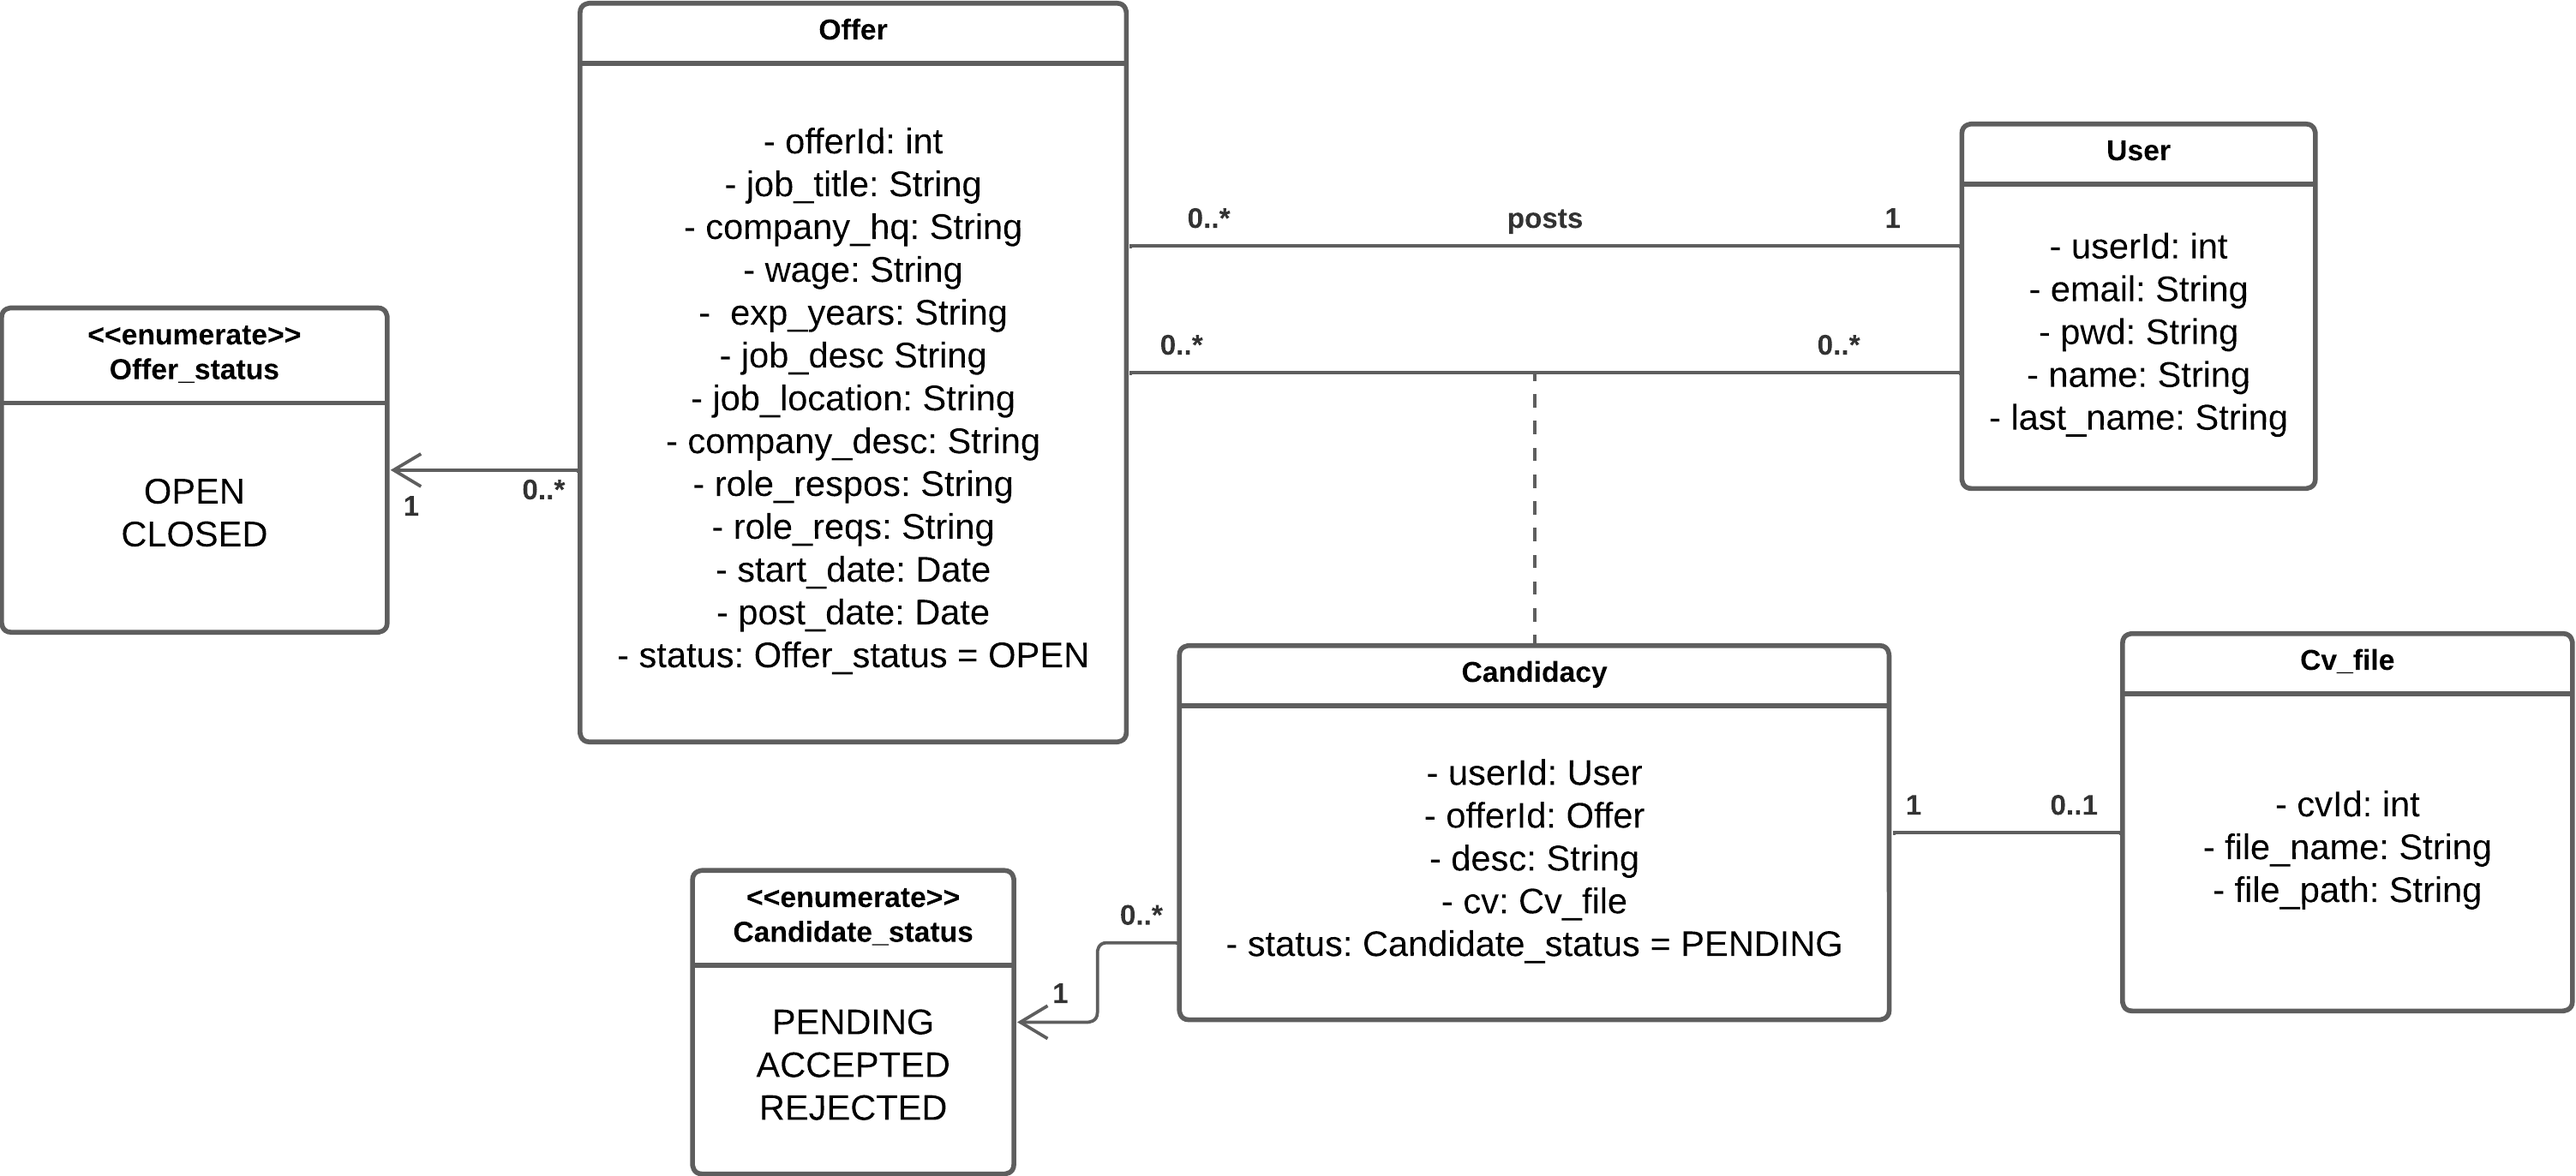
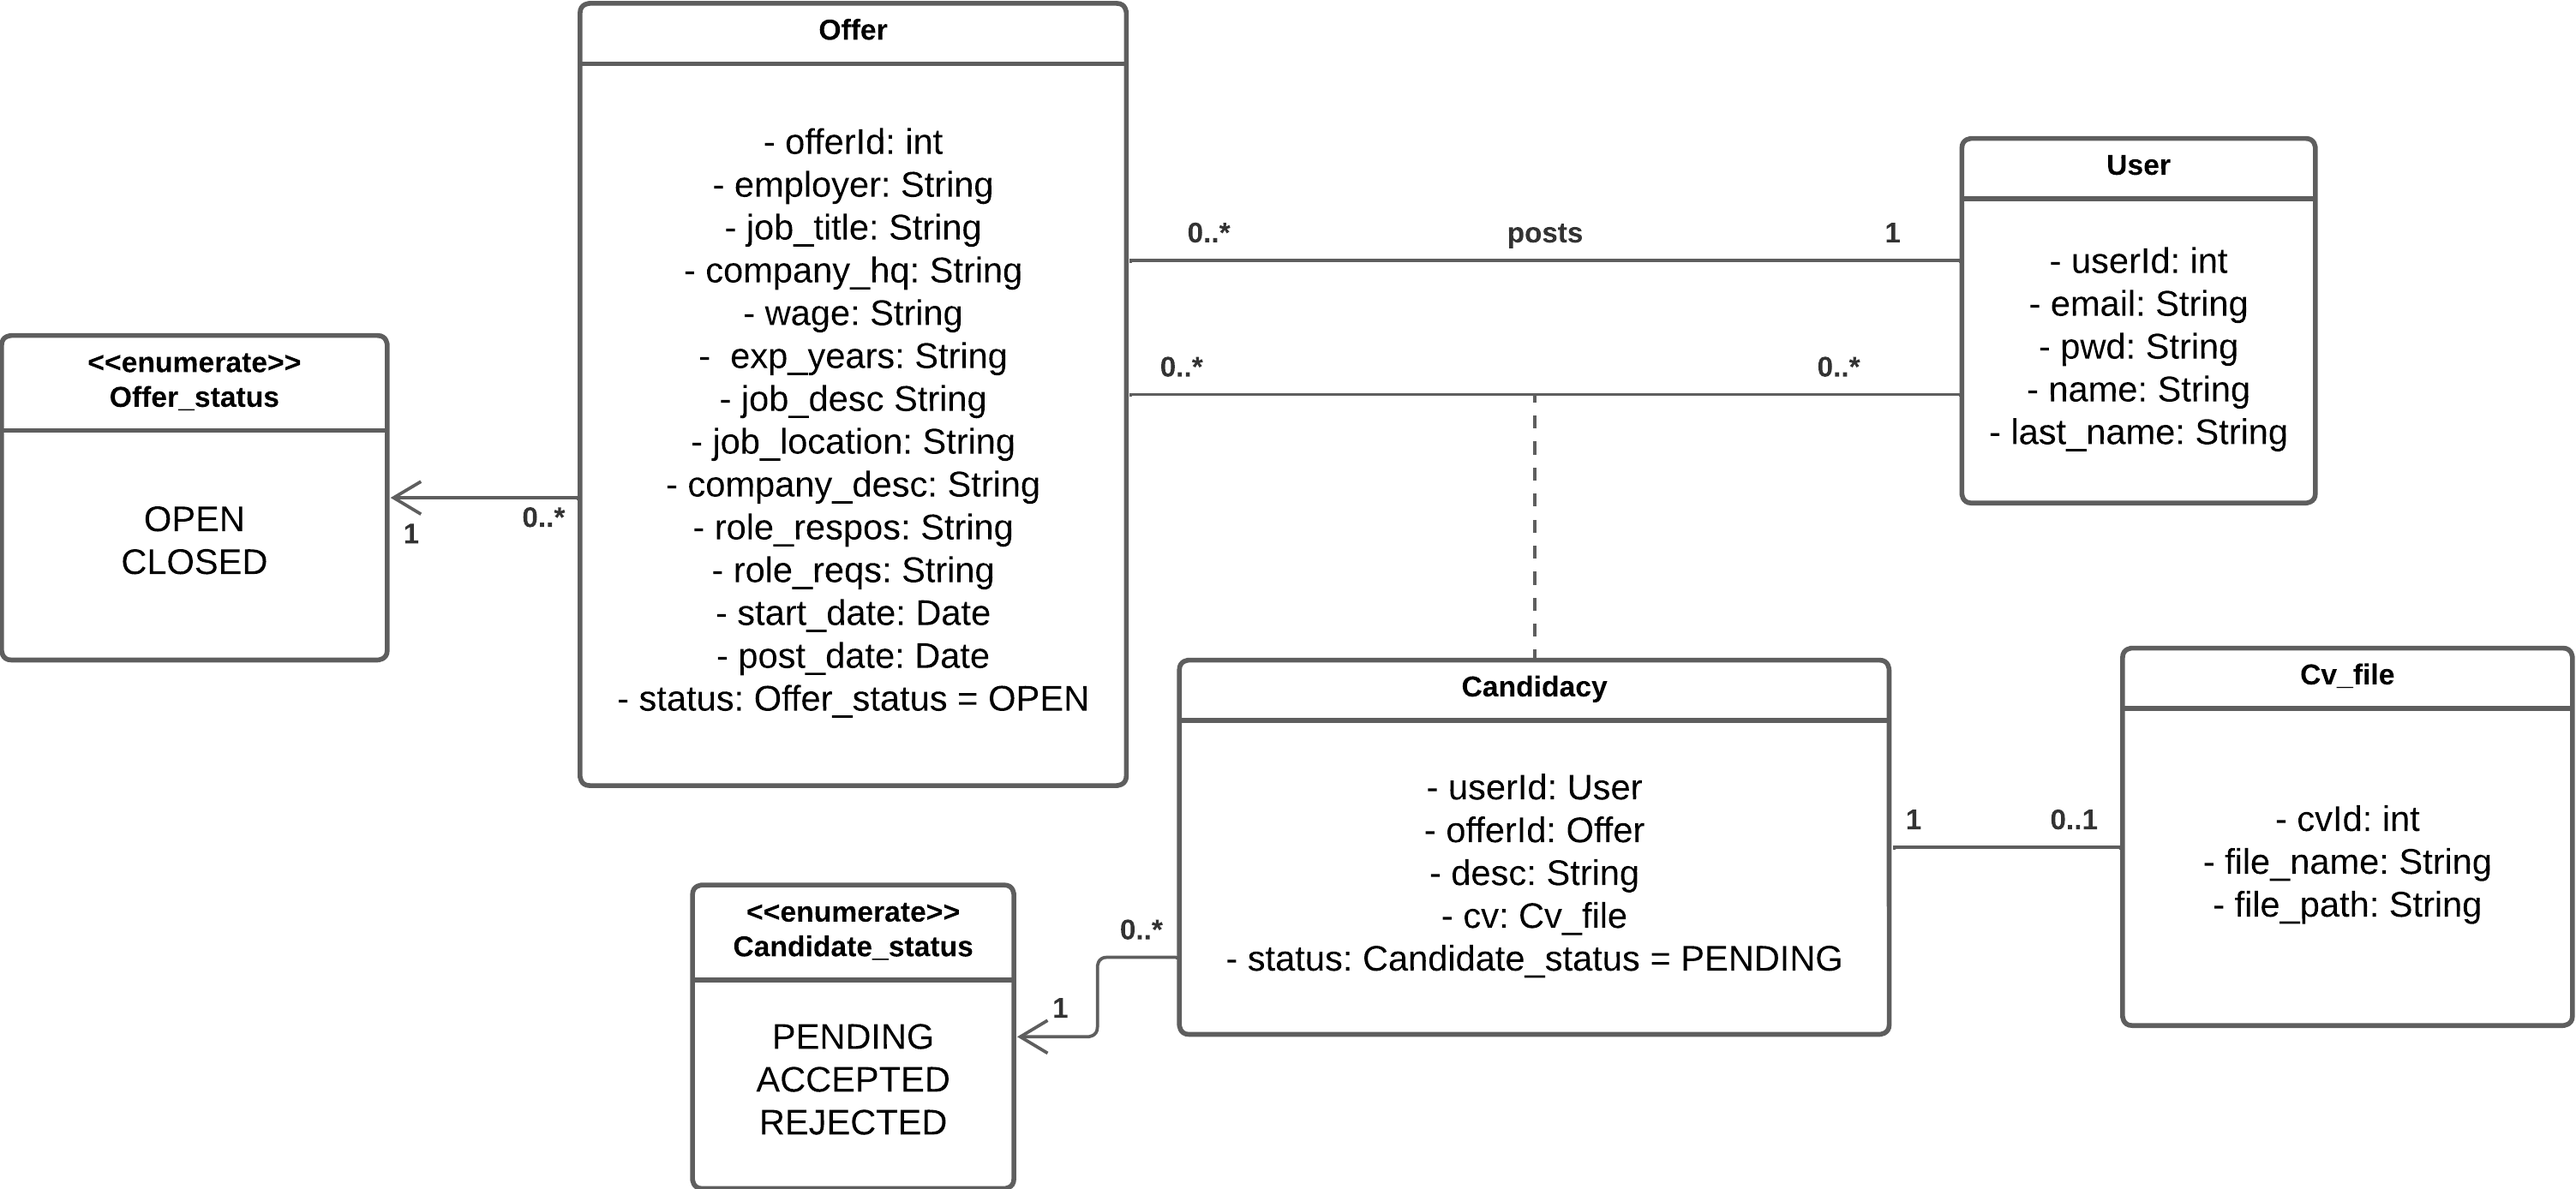
Add employer attribute to offer entity

diff --git a/frontend/src/app/components/jobs/jobs.component.html b/frontend/src/app/components/jobs/jobs.component.html
@@ -1,5 +1,6 @@
 <div class="job-list">
     <div *ngFor="let job of jobs" class="job-card">
+        <p>{{ job.poster.name }} {{ job.poster.lastName }} :</p>
         <h5>{{ job.title }}</h5>
         <span>
             <svg xmlns="http://www.w3.org/2000/svg" width="16" height="16" fill="currentColor" class="bi bi-person" viewBox="0 0 16 16" style="color:#8024db">

diff --git a/frontend/src/app/components/jobs/jobs.component.ts b/frontend/src/app/components/jobs/jobs.component.ts
@@ -10,6 +10,7 @@ export class JobsComponent {
   jobs: Offer[] = [
     {
       "id": 1,
+      "employer": "PAYME",
       "poster":
       {
         "id": 1,
@@ -30,7 +31,8 @@ export class JobsComponent {
       "status": "OPEN"
     },
     {
-      "id": 1,
+      "id": 2,
+      "employer": "DXC Technology",
       "poster":
       {
         "id": 1,

diff --git a/frontend/src/app/models/offer.ts b/frontend/src/app/models/offer.ts
@@ -2,6 +2,7 @@ import { User } from "./user";
 
 export class Offer{
     id: number = 0;
+    employer: string = '';
     poster: User = new User();
     title: string = '';
     hqLocation: string = '';

diff --git a/backend/src/main/java/com/recruitment/backend/model/Offer.java b/backend/src/main/java/com/recruitment/backend/model/Offer.java
@@ -29,6 +29,9 @@ public class Offer implements Serializable {
     @Column(name = "offer_id", unique = true, nullable = false)
     private int id;
     
+    @Column(name = "employer")
+    private String employer;
+    
     @ManyToOne(fetch = FetchType.LAZY)
 	@JoinColumn(name = "posterId")
 	private User poster;
@@ -72,9 +75,11 @@ public class Offer implements Serializable {
     	this.status = OfferStatus.OPEN;
     }
 
-    public Offer(User poster, String title, String hq_location, String exp_years, String job_desc, String job_location,
-            String company_desc, String role_respos, String role_reqs, Date start_date, Date post_date) {
-        this.poster = poster;
+    public Offer(String employer, User poster, String title, String hq_location, String exp_years, 
+    		String job_desc, String job_location, String company_desc, String role_respos, 
+    		String role_reqs, Date start_date, Date post_date) {
+        this.employer = employer;
+    	this.poster = poster;
     	this.title = title;
         this.hq_location = hq_location;
         this.exp_years = exp_years;
@@ -91,6 +96,10 @@ public class Offer implements Serializable {
     // Getters
     public int getId() {
         return id;
+    }
+    
+    public String getEmployer() {
+        return employer;
     }
     
     public User getPoster() {
@@ -144,6 +153,10 @@ public class Offer implements Serializable {
     // Setters
     public void setId(int id) {
         this.id = id;
+    }
+    
+    public void setEmployer(String employer) {
+        this.employer = employer;
     }
     
     public void setPoster(User poster) {
